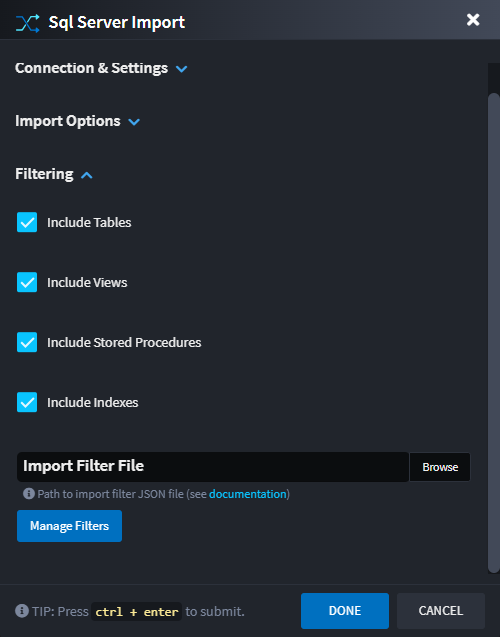
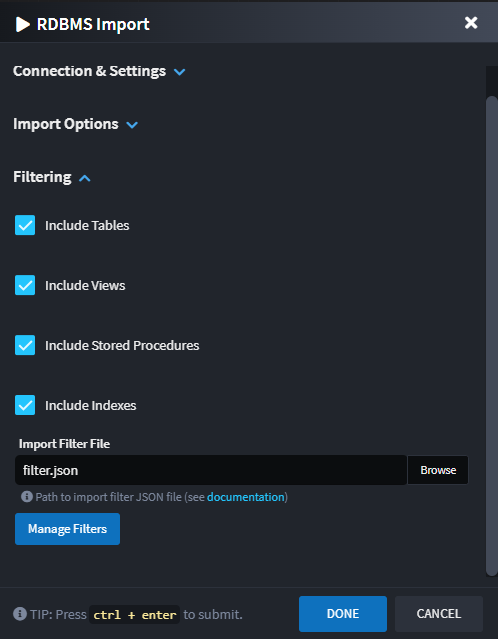
feat: implement RDBMS importer enhancements and refactor task management
- Added new RDBMS importer API for database and stored procedures, enabling streamlined import processes.
- Updated task identifiers and names to reflect the RDBMS context, replacing SQL Server references throughout the codebase.
- Enhanced import dialog titles and error handling for improved user experience.
- Included release notes support in the application output log for better version tracking.
- Refactored existing tasks to ensure consistency and clarity in the import logic.

diff --git a/Modules/Intent.Modules.Rdbms.Importer/resources/scripts/sql-importer-core.js b/Modules/Intent.Modules.Rdbms.Importer/resources/scripts/sql-importer-core.js
@@ -37,7 +37,7 @@ class DatabaseImportStrategy {
             return;
         }
         let importModel = this.createImportModel(capturedInput);
-        let executionResult = await executeImporterModuleTask("Intent.Modules.SqlServerImporter.Tasks.DatabaseImport", importModel);
+        let executionResult = await executeImporterModuleTask("Intent.Modules.Rdbms.Importer.Tasks.DatabaseImport", importModel);
         if (((_a = executionResult.errors) !== null && _a !== void 0 ? _a : []).length > 0) {
             await displayExecutionResultErrors(executionResult);
         }
@@ -96,7 +96,7 @@ class DatabaseImportStrategy {
     }
     async presentImportDialog(defaults, packageId) {
         let formConfig = {
-            title: "Sql Server Import",
+            title: "RDBMS Import",
             fields: [],
             sections: [
                 {
@@ -135,7 +135,7 @@ class DatabaseImportStrategy {
                                     connectionString: form.getField("connectionString").value,
                                     databaseType: form.getField("databaseType").value
                                 };
-                                let executionResult = await executeImporterModuleTask("Intent.Modules.SqlServerImporter.Tasks.TestConnection", testConnectionModel);
+                                let executionResult = await executeImporterModuleTask("Intent.Modules.Rdbms.Importer.Tasks.TestConnection", testConnectionModel);
                                 if (((_a = executionResult.errors) !== null && _a !== void 0 ? _a : []).length > 0) {
                                     form.getField("connectionStringTest").hint = "Failed to connect.";
                                     await displayExecutionResultErrors(executionResult);
@@ -248,7 +248,7 @@ class DatabaseImportStrategy {
                                     applicationId: application.id,
                                     packageId: packageId
                                 };
-                                const pathResolutionResult = await executeImporterModuleTask("Intent.Modules.SqlServerImporter.Tasks.PathResolution", pathResolutionModel);
+                                const pathResolutionResult = await executeImporterModuleTask("Intent.Modules.Rdbms.Importer.Tasks.PathResolution", pathResolutionModel);
                                 if (((_a = pathResolutionResult.errors) !== null && _a !== void 0 ? _a : []).length === 0 && ((_b = pathResolutionResult.result) === null || _b === void 0 ? void 0 : _b.resolvedPath)) {
                                     form.getField("importFilterFilePath").value = pathResolutionResult.result.resolvedPath;
                                 }
@@ -331,7 +331,7 @@ class DatabaseImportStrategy {
                     applicationId: application.id,
                     packageId: packageId
                 };
-                const filterLoadResult = await executeImporterModuleTask("Intent.Modules.SqlServerImporter.Tasks.FilterLoad", filterLoadModel);
+                const filterLoadResult = await executeImporterModuleTask("Intent.Modules.Rdbms.Importer.Tasks.FilterLoad", filterLoadModel);
                 if (((_a = filterLoadResult.errors) !== null && _a !== void 0 ? _a : []).length === 0 && filterLoadResult.result) {
                     existingFilter = filterLoadResult.result;
                 }
@@ -510,7 +510,7 @@ class DatabaseImportStrategy {
             connectionString: connectionString,
             databaseType: databaseType
         };
-        const metadataExecutionResult = await executeImporterModuleTask("Intent.Modules.SqlServerImporter.Tasks.RetrieveDatabaseObjects", metadataModel);
+        const metadataExecutionResult = await executeImporterModuleTask("Intent.Modules.Rdbms.Importer.Tasks.RetrieveDatabaseObjects", metadataModel);
         if (((_a = metadataExecutionResult.errors) !== null && _a !== void 0 ? _a : []).length > 0) {
             await displayExecutionResultErrors(metadataExecutionResult);
             return null;
@@ -756,7 +756,7 @@ class DatabaseImportStrategy {
                 packageId: packageId,
                 filterData: filterModel
             };
-            const saveResult = await executeImporterModuleTask("Intent.Modules.SqlServerImporter.Tasks.FilterSave", saveModel);
+            const saveResult = await executeImporterModuleTask("Intent.Modules.Rdbms.Importer.Tasks.FilterSave", saveModel);
             if (((_a = saveResult.errors) !== null && _a !== void 0 ? _a : []).length > 0) {
                 await displayExecutionResultErrors(saveResult);
                 return null;
@@ -786,7 +786,7 @@ class StoredProceduresImportStrategy {
         if (importModel == null) {
             return;
         }
-        let executionResult = await executeImporterModuleTask("Intent.Modules.SqlServerImporter.Tasks.StoredProcedureImport", importModel);
+        let executionResult = await executeImporterModuleTask("Intent.Modules.Rdbms.Importer.Tasks.StoredProcedureImport", importModel);
         if (((_a = executionResult.errors) === null || _a === void 0 ? void 0 : _a.length) > 0) {
             await displayExecutionResultErrors(executionResult);
         }
@@ -812,7 +812,7 @@ class StoredProceduresImportStrategy {
     }
     async presentImportDialog(defaults) {
         let formConfig = {
-            title: "Sql Server Import",
+            title: "RDBMS Import",
             fields: [
                 {
                     id: "connectionString",
@@ -967,7 +967,7 @@ class StoredProceduresImportStrategy {
                 connectionString: connectionString,
                 databaseType: databaseType
             };
-            let executionResult = await executeImporterModuleTask("Intent.Modules.SqlServerImporter.Tasks.StoredProcList", input);
+            let executionResult = await executeImporterModuleTask("Intent.Modules.Rdbms.Importer.Tasks.StoredProcList", input);
             if (((_a = executionResult.errors) === null || _a === void 0 ? void 0 : _a.length) > 0) {
                 await displayExecutionResultErrors(executionResult);
                 return [];
@@ -1029,7 +1029,7 @@ class StoredProceduresImportStrategy {
 }
 /// <reference path="./strategy-database-import.ts" />
 /// <reference path="./strategy-stored-procedures-import.ts" />
-let SqlServerImporterApi = {
+let RdbmsImporterApi = {
     importDatabase,
     importStoredProcedures
 };

diff --git a/Modules/Intent.Modules.Rdbms.Importer/DesignerScripts/strategy-database-import.ts b/Modules/Intent.Modules.Rdbms.Importer/DesignerScripts/strategy-database-import.ts
@@ -9,7 +9,7 @@ class DatabaseImportStrategy {
             return;
         }
         let importModel = this.createImportModel(capturedInput);
-        let executionResult = await executeImporterModuleTask("Intent.Modules.SqlServerImporter.Tasks.DatabaseImport", importModel);
+        let executionResult = await executeImporterModuleTask("Intent.Modules.Rdbms.Importer.Tasks.DatabaseImport", importModel);
         
         if ((executionResult.errors ?? []).length > 0) {
             await displayExecutionResultErrors(executionResult);
@@ -69,7 +69,7 @@ class DatabaseImportStrategy {
 
     private async presentImportDialog(defaults: ISqlDatabaseImportPackageSettings, packageId: string): Promise<any> {
         let formConfig: MacroApi.Context.IDynamicFormConfig = {
-            title: "Sql Server Import",
+            title: "RDBMS Import",
             fields: [],
             sections: [
                 {
@@ -109,7 +109,7 @@ class DatabaseImportStrategy {
                                 };
                                 
                                 let executionResult = await executeImporterModuleTask(
-                                    "Intent.Modules.SqlServerImporter.Tasks.TestConnection",
+                                    "Intent.Modules.Rdbms.Importer.Tasks.TestConnection",
                                     testConnectionModel);
                                 
                                 if ((executionResult.errors ?? []).length > 0) {
@@ -225,7 +225,7 @@ class DatabaseImportStrategy {
                                 };
                                 
                                 const pathResolutionResult = await executeImporterModuleTask(
-                                    "Intent.Modules.SqlServerImporter.Tasks.PathResolution",
+                                    "Intent.Modules.Rdbms.Importer.Tasks.PathResolution",
                                     pathResolutionModel
                                 );
                                 
@@ -318,7 +318,7 @@ class DatabaseImportStrategy {
                     packageId: packageId
                 };
                 const filterLoadResult = await executeImporterModuleTask(
-                    "Intent.Modules.SqlServerImporter.Tasks.FilterLoad",
+                    "Intent.Modules.Rdbms.Importer.Tasks.FilterLoad",
                     filterLoadModel
                 );
                 
@@ -507,7 +507,7 @@ class DatabaseImportStrategy {
             databaseType: databaseType 
         };
         const metadataExecutionResult = await executeImporterModuleTask(
-            "Intent.Modules.SqlServerImporter.Tasks.RetrieveDatabaseObjects", 
+            "Intent.Modules.Rdbms.Importer.Tasks.RetrieveDatabaseObjects", 
             metadataModel);
         
         if ((metadataExecutionResult.errors ?? []).length > 0) {
@@ -825,7 +825,7 @@ class DatabaseImportStrategy {
             };
 
             const saveResult = await executeImporterModuleTask(
-                "Intent.Modules.SqlServerImporter.Tasks.FilterSave",
+                "Intent.Modules.Rdbms.Importer.Tasks.FilterSave",
                 saveModel
             );
 

diff --git a/Modules/Intent.Modules.Rdbms.Importer/DesignerScripts/strategy-stored-procedures-import.ts b/Modules/Intent.Modules.Rdbms.Importer/DesignerScripts/strategy-stored-procedures-import.ts
@@ -12,7 +12,7 @@ class StoredProceduresImportStrategy {
         if (importModel == null) {
             return;
         }
-        let executionResult = await executeImporterModuleTask("Intent.Modules.SqlServerImporter.Tasks.StoredProcedureImport", importModel);
+        let executionResult = await executeImporterModuleTask("Intent.Modules.Rdbms.Importer.Tasks.StoredProcedureImport", importModel);
         
         if (executionResult.errors?.length > 0) {
             await displayExecutionResultErrors(executionResult);
@@ -40,7 +40,7 @@ class StoredProceduresImportStrategy {
 
     private async presentImportDialog(defaults: ISqlStoredProceduresImportPackageSettings): Promise<any> {
         let formConfig: MacroApi.Context.IDynamicFormConfig = {
-            title: "Sql Server Import",
+            title: "RDBMS Import",
             fields: [
                 {
                     id: "connectionString",
@@ -208,7 +208,7 @@ class StoredProceduresImportStrategy {
                 connectionString: connectionString,
                 databaseType: databaseType
             };
-            let executionResult = await executeImporterModuleTask("Intent.Modules.SqlServerImporter.Tasks.StoredProcList", input);
+            let executionResult = await executeImporterModuleTask("Intent.Modules.Rdbms.Importer.Tasks.StoredProcList", input);
             
             if (executionResult.errors?.length > 0) {
                 await displayExecutionResultErrors(executionResult);

diff --git a/Modules/Intent.Modules.Rdbms.Importer/DesignerScripts/rdbms-importer-api.ts b/Modules/Intent.Modules.Rdbms.Importer/DesignerScripts/rdbms-importer-api.ts
@@ -1,7 +1,7 @@
 /// <reference path="./strategy-database-import.ts" />
 /// <reference path="./strategy-stored-procedures-import.ts" />
 
-let SqlServerImporterApi = {
+let RdbmsImporterApi = {
     importDatabase,
     importStoredProcedures
 };

diff --git a/Modules/Intent.Modules.Rdbms.Importer/Tasks/RetrieveDatabaseObjects.cs b/Modules/Intent.Modules.Rdbms.Importer/Tasks/RetrieveDatabaseObjects.cs
@@ -10,7 +10,7 @@ namespace Intent.Modules.Rdbms.Importer.Tasks;
 
 public class RetrieveDatabaseObjects : ModuleTaskSingleInputBase<DatabaseMetadataInputModel>
 {
-    public override string TaskTypeId => "Intent.Modules.SqlServerImporter.Tasks.RetrieveDatabaseObjects";
+    public override string TaskTypeId => "Intent.Modules.Rdbms.Importer.Tasks.RetrieveDatabaseObjects";
     public override string TaskTypeName => "Retrieve Database Objects";
 
     protected override ValidationResult ValidateInputModel(DatabaseMetadataInputModel inputModel)

diff --git a/Modules/Intent.Modules.Rdbms.Importer/Tasks/StoredProcedureImport.cs b/Modules/Intent.Modules.Rdbms.Importer/Tasks/StoredProcedureImport.cs
@@ -20,7 +20,7 @@ public class RepositoryImport : ModuleTaskSingleInputBase<RepositoryImportModel>
         _metadataManager = metadataManager;
     }
 
-    public override string TaskTypeId => "Intent.Modules.SqlServerImporter.Tasks.StoredProcedureImport";
+    public override string TaskTypeId => "Intent.Modules.Rdbms.Importer.Tasks.StoredProcedureImport";
     public override string TaskTypeName => "SqlServer Stored Procedure Import";
 
     protected override ValidationResult ValidateInputModel(RepositoryImportModel inputModel)

diff --git a/Modules/Intent.Modules.Rdbms.Importer/Tasks/TestConnection.cs b/Modules/Intent.Modules.Rdbms.Importer/Tasks/TestConnection.cs
@@ -7,7 +7,7 @@ namespace Intent.Modules.Rdbms.Importer.Tasks;
 
 public class TestConnection : ModuleTaskSingleInputBase<TestConnectionInputModel>
 {
-    public override string TaskTypeId => "Intent.Modules.SqlServerImporter.Tasks.TestConnection";
+    public override string TaskTypeId => "Intent.Modules.Rdbms.Importer.Tasks.TestConnection";
     public override string TaskTypeName => "SqlServer Database Connection Tester";
 
     protected override ValidationResult ValidateInputModel(TestConnectionInputModel inputModel)

diff --git a/Modules/Intent.Modules.Rdbms.Importer/Tasks/PathResolution.cs b/Modules/Intent.Modules.Rdbms.Importer/Tasks/PathResolution.cs
@@ -15,7 +15,7 @@ public class PathResolution : ModuleTaskSingleInputBase<PathResolutionInputModel
         _metadataManager = metadataManager;
     }
     
-    public override string TaskTypeId => "Intent.Modules.SqlServerImporter.Tasks.PathResolution";
+    public override string TaskTypeId => "Intent.Modules.Rdbms.Importer.Tasks.PathResolution";
     public override string TaskTypeName => "SqlServer Path Resolution";
 
     protected override ValidationResult ValidateInputModel(PathResolutionInputModel inputModel)

diff --git a/Modules/Intent.Modules.Rdbms.Importer/Tasks/StoredProcList.cs b/Modules/Intent.Modules.Rdbms.Importer/Tasks/StoredProcList.cs
@@ -8,7 +8,7 @@ namespace Intent.Modules.Rdbms.Importer.Tasks;
 
 public class StoredProcList : ModuleTaskSingleInputBase<StoredProcListInputModel>
 {
-    public override string TaskTypeId => "Intent.Modules.SqlServerImporter.Tasks.StoredProcList";
+    public override string TaskTypeId => "Intent.Modules.Rdbms.Importer.Tasks.StoredProcList";
     public override string TaskTypeName => "SqlServer Stored Procedure List";
 
     protected override ValidationResult ValidateInputModel(StoredProcListInputModel inputModel)

diff --git a/Modules/Intent.Modules.Rdbms.Importer/Tasks/DatabaseImport.cs b/Modules/Intent.Modules.Rdbms.Importer/Tasks/DatabaseImport.cs
@@ -21,7 +21,7 @@ public class DatabaseImport : ModuleTaskSingleInputBase<DatabaseImportModel>
         _metadataManager = metadataManager;
     }
 
-    public override string TaskTypeId => "Intent.Modules.SqlServerImporter.Tasks.DatabaseImport";
+    public override string TaskTypeId => "Intent.Modules.Rdbms.Importer.Tasks.DatabaseImport";
     public override string TaskTypeName => "SqlServer Database Import";
 
     protected override ValidationResult ValidateInputModel(DatabaseImportModel inputModel)

diff --git a/Modules/Intent.Modules.Rdbms.Importer/Tasks/FilterLoad.cs b/Modules/Intent.Modules.Rdbms.Importer/Tasks/FilterLoad.cs
@@ -17,7 +17,7 @@ public class FilterLoad : ModuleTaskSingleInputBase<FilterLoadInputModel>
         _metadataManager = metadataManager;
     }
     
-    public override string TaskTypeId => "Intent.Modules.SqlServerImporter.Tasks.FilterLoad";
+    public override string TaskTypeId => "Intent.Modules.Rdbms.Importer.Tasks.FilterLoad";
     public override string TaskTypeName => "SqlServer Filter Load";
 
     protected override ValidationResult ValidateInputModel(FilterLoadInputModel inputModel)

diff --git a/Modules/Intent.Modules.Rdbms.Importer/Tasks/FilterSave.cs b/Modules/Intent.Modules.Rdbms.Importer/Tasks/FilterSave.cs
@@ -17,7 +17,7 @@ public class FilterSave : ModuleTaskSingleInputBase<FilterSaveInputModel>
         _metadataManager = metadataManager;
     }
     
-    public override string TaskTypeId => "Intent.Modules.SqlServerImporter.Tasks.FilterSave";
+    public override string TaskTypeId => "Intent.Modules.Rdbms.Importer.Tasks.FilterSave";
     public override string TaskTypeName => "SqlServer Filter Save";
 
     protected override ValidationResult ValidateInputModel(FilterSaveInputModel inputModel)
